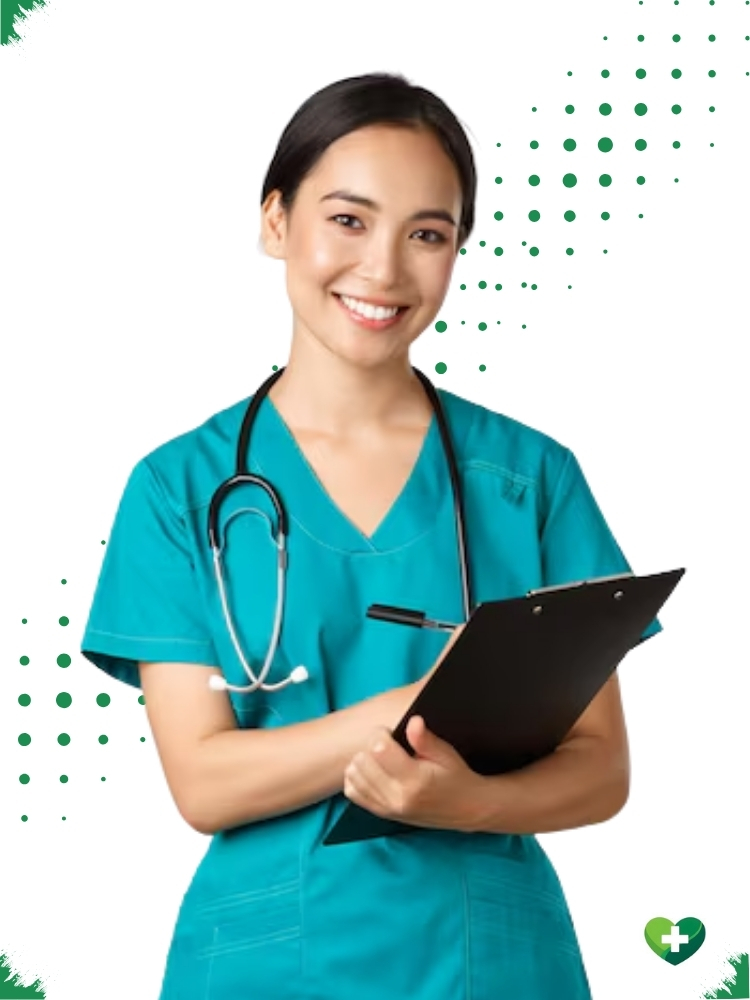
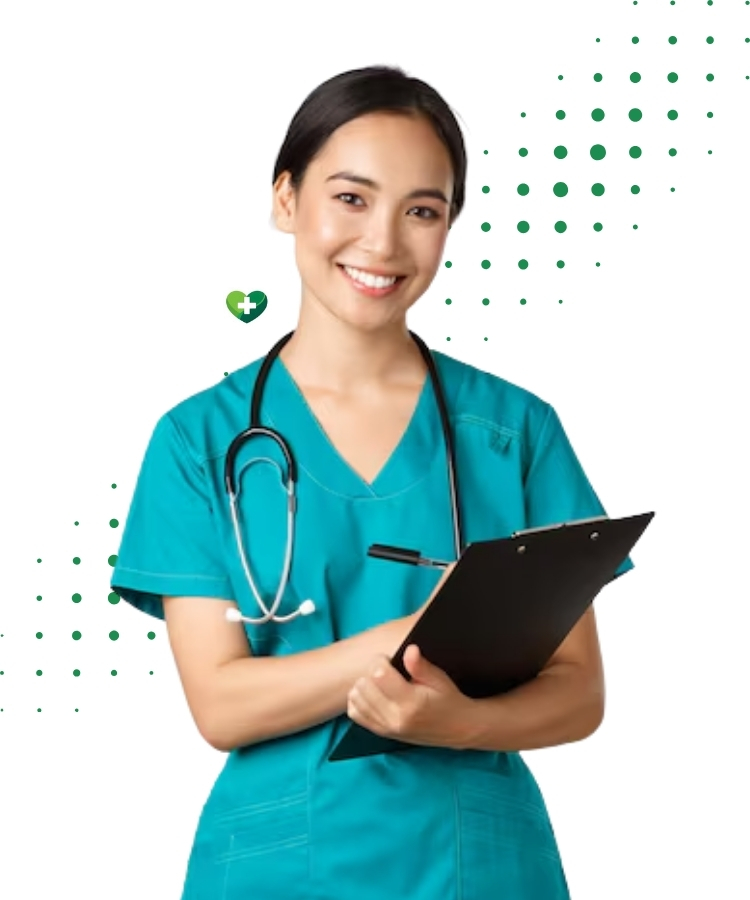
ok

diff --git a/index.html b/index.html
@@ -437,7 +437,13 @@
     }
 
     /* Overlay removido — banner já tem fundo próprio */
-    .slide-overlay { display: none; }
+    .slide-overlay {
+      display: none;
+      position: absolute;
+      inset: 0;
+      z-index: 1;
+      pointer-events: none;
+    }
 
     /* Conteúdo de texto sobre o banner */
     .slide-content {
@@ -480,6 +486,7 @@
     }
     .slide-title .highlight { color: var(--green-primary); }
     .slide-title .nowrap { white-space: nowrap; }
+    .mobile-only { display: none; }
 
     .slide-sub {
       font-size: 1.05rem;
@@ -1561,9 +1568,9 @@
         display: block;
         background: linear-gradient(
           to bottom,
-          rgba(10,30,15,.55) 0%,
-          rgba(10,30,15,.45) 60%,
-          rgba(10,30,15,.65) 100%
+          rgba(5,18,10,.68) 0%,
+          rgba(5,18,10,.58) 55%,
+          rgba(5,18,10,.76) 100%
         );
       }
       .slide-content {
@@ -1574,12 +1581,15 @@
       }
       /* Textos viram brancos por causa do overlay */
       .slide-tag {
-        background: rgba(255,255,255,.15);
-        border-color: rgba(255,255,255,.3);
-        color: white;
+        align-self: center;
+        background: var(--green-light);
+        border-color: var(--green-medium);
+        color: var(--green-dark);
       }
-      .slide-title { color: white; font-size: clamp(1.55rem, 6.5vw, 2rem); text-shadow: 0 2px 10px rgba(0,0,0,.3); }
+      .slide-title { color: white; font-size: clamp(1.85rem, 7.8vw, 2.35rem); text-shadow: 0 2px 10px rgba(0,0,0,.3); }
       .slide-title .highlight { color: #6ee89a; }
+      .desktop-only { display: none; }
+      .mobile-only { display: inline; }
       .slide-sub { color: rgba(255,255,255,.88); font-size: .9rem; }
       .slide-cta { align-self: center; }
       /* Setas e dots — estilo claro para fundo escuro */
@@ -1807,7 +1817,7 @@
             Cuidado humanizado
           </span>
           <h1 class="slide-title">
-            Acompanhamento <span class="highlight">contínuo</span> para sua <span class="nowrap">família ter tranquilidade</span>
+            Acompanhamento <span class="highlight">contínuo</span> para sua <span class="desktop-only nowrap">família ter tranquilidade</span><span class="mobile-only nowrap">família ficar tranquila</span>
           </h1>
           <p class="slide-sub">
             Suporte com profissionais dedicados para o cuidado frequente e prolongado do seu familiar.